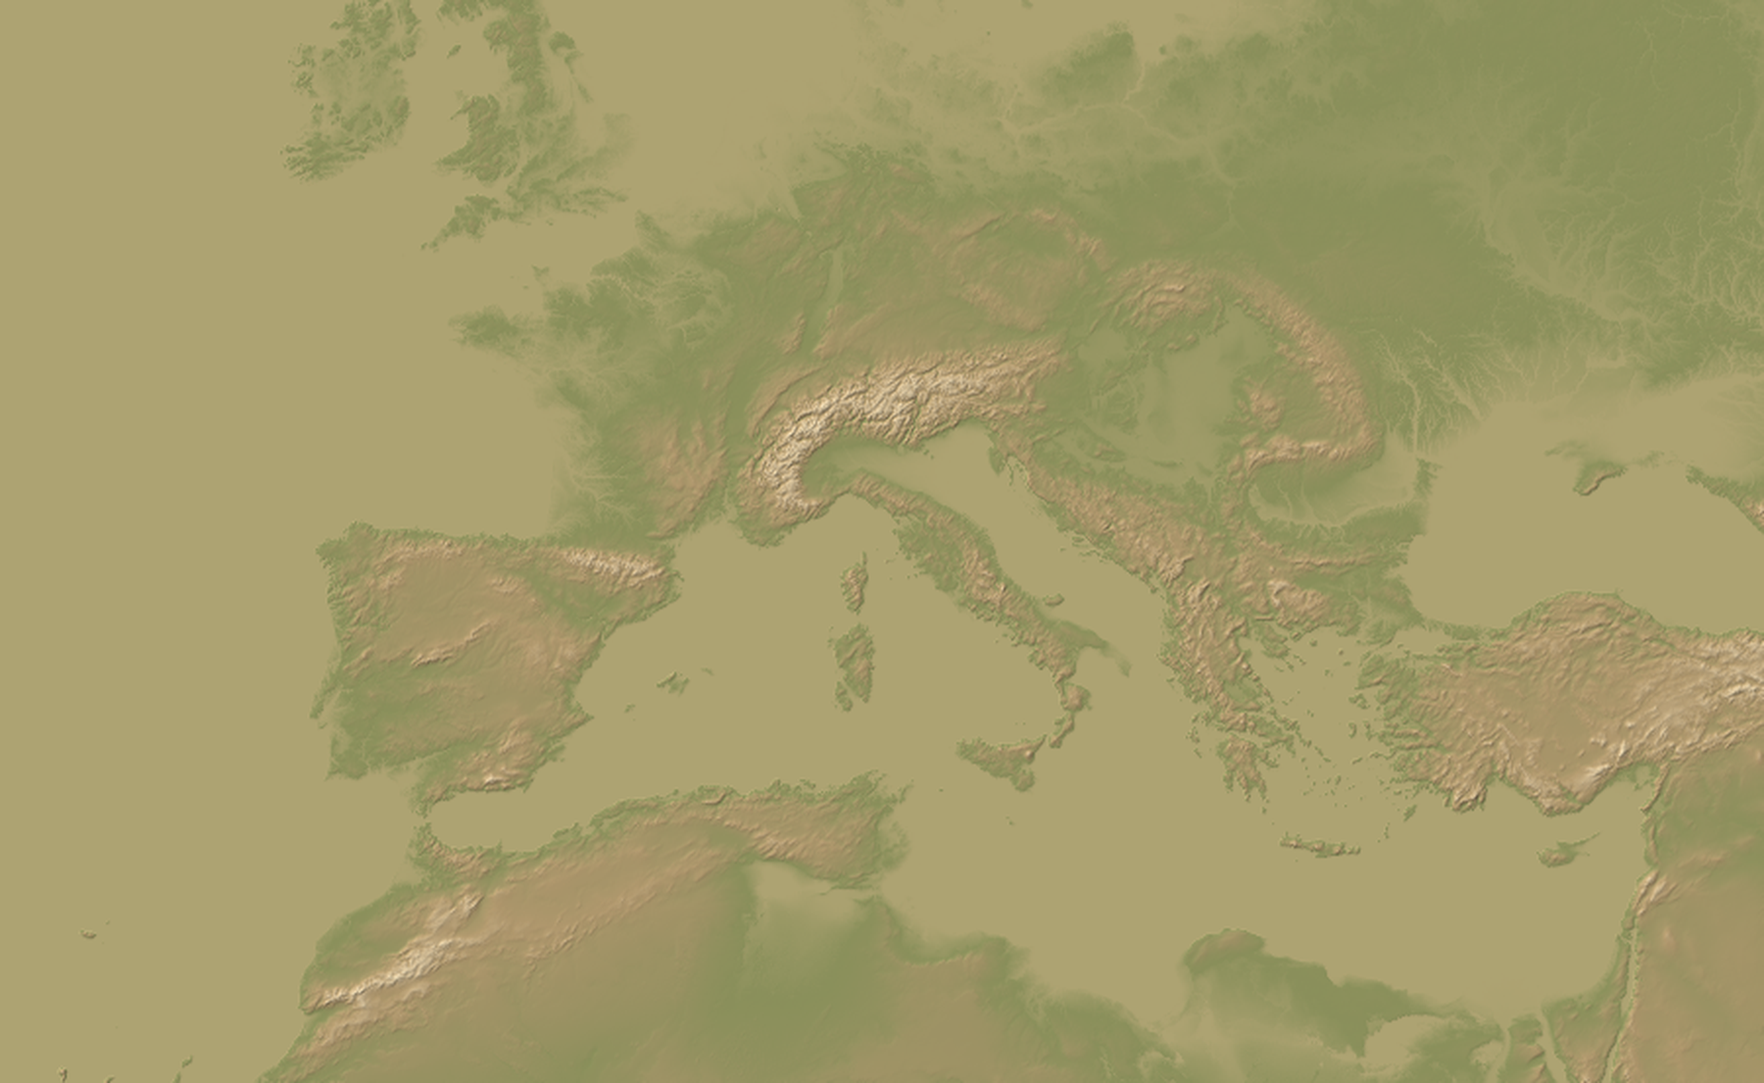
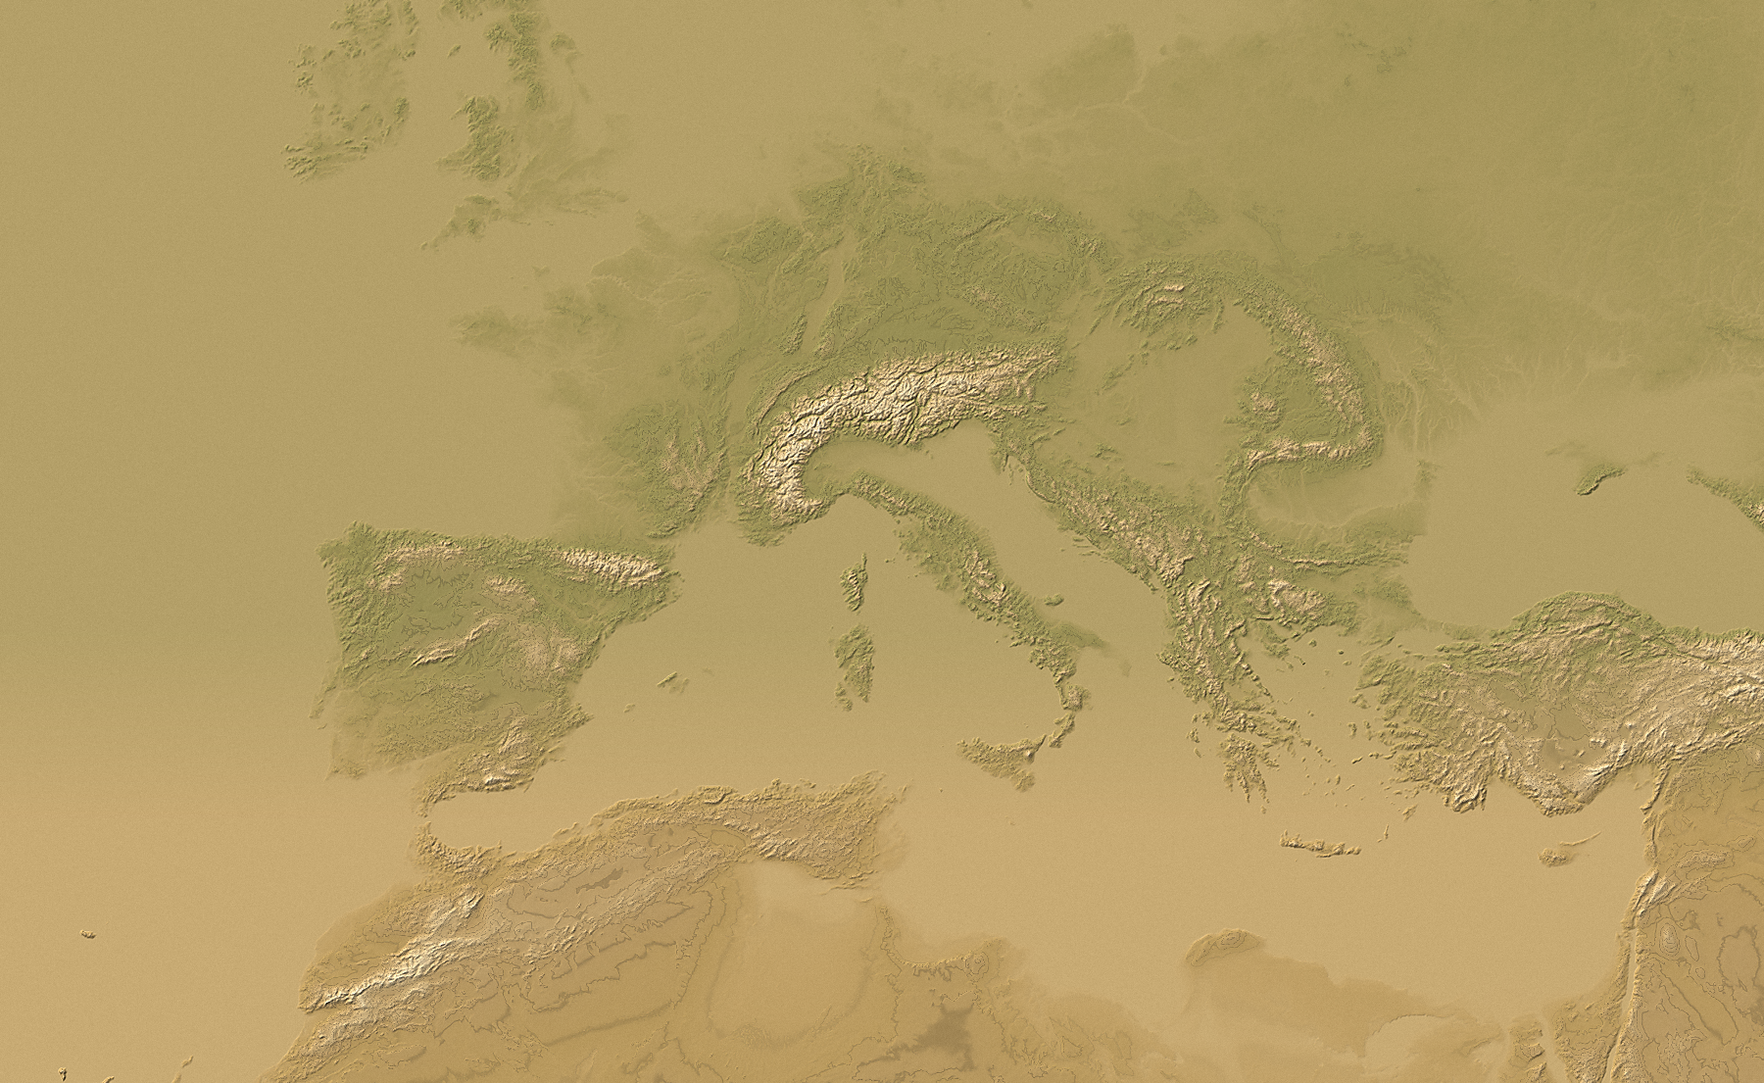
Bring atlas closer to approved reference with detailed relief and bathymetry

diff --git a/jarvis-intelligence-chamber/professional-atlas.js b/jarvis-intelligence-chamber/professional-atlas.js
@@ -29,9 +29,11 @@
  if(brand){brand.querySelector('.atlas-n7').textContent='NABOU';brand.querySelector('.atlas-sub').textContent='N7 Historical Atlas';const ship=el('img');ship.src='./assets/nautical/img/ship.png';ship.alt='';ship.className='pro-brand-ship';brand.prepend(ship);}
  const nav=document.querySelector('#atlasResearch>.atlas-topnav');
  if(nav){nav.querySelector('[data-atlas-nav="research"]').textContent='Ιστορική Έρευνα';nav.querySelector('[data-atlas-nav="tools"]').textContent='Βιβλιοθήκη';}
+ const navIcons={map:'M2 4l6-2 8 3 6-2v17l-6 2-8-3-6 2zM8 2v17M16 5v17',research:'M12 5C8 2 4 2 1 3v17c4-1 7 0 11 2 4-2 7-3 11-2V3c-4-1-7-1-11 2zm0 0v17',sources:'M4 2h16v20H4zM7 6h10M7 10h10M7 14h7M7 18h8',agents:'M8 11a4 4 0 1 0 0-8 4 4 0 0 0 0 8zM1 22v-3c0-7 14-7 14 0v3M17 4a4 4 0 0 1 0 8M19 16c3 1 4 3 4 6',tools:'M2 3h5v19H2zM10 3h5v19h-5zM18 3h4v19h-4zM2 7h5M10 7h5M18 7h4'};
+ if(nav)for(const b of nav.querySelectorAll('[data-atlas-nav]')){const icon=svg('svg',{viewBox:'0 0 24 24',width:24,height:24,'aria-hidden':'true',class:'pro-nav-icon',fill:'none',stroke:'currentColor','stroke-width':1.3,'stroke-linejoin':'round'});icon.append(svg('path',{d:navIcons[b.dataset.atlasNav]||navIcons.sources}));b.prepend(icon);}
  const tools=el('aside',undefined,'pro-map-tools');tools.id='proMapTools';tools.setAttribute('aria-label','Φίλτρα και τόποι χάρτη');
  const heading=el('div',undefined,'pro-tools-heading');heading.append(el('h2','Επίπεδα'),button('×',()=>{tools.classList.remove('pro-open');toggle.setAttribute('aria-expanded','false');},'pro-mobile-close'));tools.append(heading);
- function check(label,key,on){const box=el('label',undefined,'pro-check');const input=el('input');input.type='checkbox';input.checked=on;input.addEventListener('change',()=>{body.dataset[key]=String(input.checked);for(const p of places)if(p.object3d)p.object3d.hidden=key==='proPlaces'?!input.checked:p.object3d.hidden;});box.append(input,el('span',label));tools.append(box);return input;}
+ function check(label,key,on){const box=el('label',undefined,'pro-check');const input=el('input');input.type='checkbox';input.setAttribute('aria-label',label);input.checked=on;input.addEventListener('change',()=>{body.dataset[key]=String(input.checked);for(const p of places)if(p.object3d)p.object3d.hidden=key==='proPlaces'?!input.checked:p.object3d.hidden;});box.append(input,el('span',label));tools.append(box);return input;}
  check('Τόποι & λιμάνια','proPlaces',true);const laneInput=check('Ερευνητές','proLanes',false);check('Ναυτικές γραμμές','proRhumbs',false);
  window.addEventListener('jarvis:focus-agent',()=>{body.dataset.proLanes='true';laneInput.checked=true;});
  const period=el('section',undefined,'pro-period');period.append(el('h2','Χρονολόγηση'));const dateLabel=el('p');
@@ -51,12 +53,19 @@
  const terrain=$('chartPlane').querySelector('svg.chart');
  if(terrain){
   const defs=terrain.querySelector('defs'),clip=svg('clipPath',{id:'proLandClip'});clip.append(svg('use',{href:'#landP'}));defs.append(clip);
-  const gradient=svg('linearGradient',{id:'proSea',x1:'0',y1:'0',x2:'0',y2:'1'});gradient.append(svg('stop',{offset:'0%','stop-color':'#16434a'}),svg('stop',{offset:'100%','stop-color':'#092c34'}));defs.append(gradient);
+  const gradient=svg('linearGradient',{id:'proSea',x1:'0',y1:'0',x2:'0',y2:'1'});gradient.append(svg('stop',{offset:'0%','stop-color':'#0c3e49'}),svg('stop',{offset:'100%','stop-color':'#06242e'}));defs.append(gradient);
+  const ocean=svg('image',{x:0,y:0,width:C.W,height:C.H,class:'pro-ocean'});terrain.querySelector('.landbase').before(ocean);
+  fetch('./assets/nautical/terrain/professional-ocean.png').then(r=>{if(!r.ok)throw Error('ocean unavailable');return r.blob();}).then(blob=>new Promise((resolve,reject)=>{const reader=new FileReader();reader.onload=()=>resolve(reader.result);reader.onerror=reject;reader.readAsDataURL(blob);})).then(data=>{ocean.setAttribute('href',data);body.dataset.proOcean='ready';}).catch(()=>{ocean.remove();body.dataset.proOcean='unavailable';});
   const relief=svg('image',{x:0,y:0,width:C.W,height:C.H,'clip-path':'url(#proLandClip)',class:'pro-relief'});terrain.querySelector('.coast').before(relief);
   // Inline the same-origin raster so the existing 3D SVG texture loader can reuse it.
   fetch('./assets/nautical/terrain/professional-relief.png').then(r=>{if(!r.ok)throw Error('terrain unavailable');return r.blob();}).then(blob=>new Promise((resolve,reject)=>{const reader=new FileReader();reader.onload=()=>resolve(reader.result);reader.onerror=reject;reader.readAsDataURL(blob);})).then(data=>{relief.setAttribute('href',data);body.dataset.proRelief='ready';}).catch(()=>{relief.remove();body.dataset.proRelief='unavailable';});
+  const grid=svg('g',{class:'pro-map-grid'});
+  for(let lon=-15;lon<=40;lon+=5){const a=project(lon,28.4),b=project(lon,55.2);grid.append(svg('path',{d:`M${a.x},${a.y}L${b.x},${b.y}`}));}
+  for(let lat=30;lat<=55;lat+=5){const a=project(-20,lat),b=project(40,lat);grid.append(svg('path',{d:`M${a.x},${a.y}L${b.x},${b.y}`}));}terrain.querySelector('.coast').before(grid);
+  const noise=svg('filter',{id:'proSeaGrain',x:'0%',y:'0%',width:'100%',height:'100%'});noise.append(svg('feTurbulence',{type:'fractalNoise',baseFrequency:'.65',numOctaves:'3',seed:'1577',stitchTiles:'stitch'}));defs.append(noise);
+  const seaGrain=svg('rect',{x:0,y:0,width:C.W,height:C.H,filter:'url(#proSeaGrain)',class:'pro-sea-texture'});terrain.querySelector('.landbase').before(seaGrain);
   const labels=svg('g',{class:'pro-map-labels'});
-  for(const [text,lon,lat,sea] of [['Ευρώπη',4,48,false],['Βόρεια Αφρική',3,30.8,false],['Μικρά Ασία',31,38.5,false],['Μεσόγειος Θάλασσα',15,34.3,true]]){const pos=project(lon,lat),t=svg('text',{x:pos.x,y:pos.y,'text-anchor':'middle',class:sea?'pro-sea-label':'pro-land-label'});t.textContent=text;labels.append(t);}terrain.append(labels);
+  for(const [text,lon,lat,sea] of [['Ευρώπη',4,44.4,false],['Βόρεια Αφρική',3,33.2,false],['Μικρά Ασία',31,38.5,false],['Μεσόγειος Θάλασσα',15,35.7,true]]){const pos=project(lon,lat),t=svg('text',{x:pos.x,y:pos.y,'text-anchor':'middle',class:sea?'pro-sea-label':'pro-land-label'});if(sea){for(const [word,dy]of [['Μεσόγειος',0],['Θάλασσα',27]]){const line=svg('tspan',{x:pos.x,dy});line.textContent=word;t.append(line);}}else t.textContent=text;labels.append(t);}terrain.append(labels);
  }
  function view(){const m=/translate\(([-\d.]+)px,\s*([-\d.]+)px\)\s*scale\(([-\d.]+)\)/.exec(plane.style.transform||'');return m?{x:+m[1],y:+m[2],s:+m[3]}:{x:0,y:0,s:1};}
  function syncView(){const v=view();overlay.style.setProperty('--pro-inverse-scale',1/v.s);const host=$('chartView'),y=(host.clientHeight/2-v.y)/v.s;const lat=(2*Math.atan(Math.exp((C.my1-y/C.k)*Math.PI/180))-Math.PI/2)*180/Math.PI;const kmPerPixel=111.32*Math.cos(lat*Math.PI/180)/(C.k*v.s),raw=140*kmPerPixel,power=10**Math.floor(Math.log10(Math.max(1,raw))),nice=[10,5,2,1].map(n=>n*power).find(n=>n<=raw)||power;scaleLine.style.width=(nice/kmPerPixel)+'px';scaleLabel.textContent='0                     '+Math.round(nice).toLocaleString('el')+' χλμ.';}
@@ -77,5 +86,7 @@
  window.addEventListener('nabou:map3d',event=>{if(!event.detail?.on)return;for(const p of places){if(p.object3d)continue;const b=button(p.name,()=>select(p.id),'pro-3d-place');b.dataset.place=p.id;p.object3d=b;b.hidden=body.dataset.proPlaces!=='true';window.NABOU_MAP3D?.addObject(b,{lon:p.lon,lat:p.lat,z:1});}});
  import('./live-bridge.js').then(({connectResearchFeed})=>connectResearchFeed({onSnapshot:s=>{snapshot=s;renderPlace();},onReset:()=>{snapshot=null;renderPlace();}})).catch(()=>{snapshot=null;renderPlace();});
  select(selected.id,{focus:false});dateLabel.textContent=startYear+' – '+endYear;
+ // Use the existing wheel handler for the reference's slightly wider opening composition.
+ if(innerWidth>900)requestAnimationFrame(()=>requestAnimationFrame(()=>{if(window.NABOU_MAP3D?.enabled)return;const r=$('chartView').getBoundingClientRect();$('chartStage').dispatchEvent(new WheelEvent('wheel',{deltaY:90,clientX:r.left+r.width*.62,clientY:r.top+r.height*.5,bubbles:true,cancelable:true}));}));
  window.NABOU_PRO_ATLAS={places:places.map(({id,name,lon,lat})=>({id,name,lon,lat})),project,select,get selected(){return selected.id;}};
 })();

diff --git a/jarvis-intelligence-chamber/professional-atlas.css b/jarvis-intelligence-chamber/professional-atlas.css
@@ -101,3 +101,49 @@ body.atlas-pro .pro-map-tools input[type=search]{background:#ffffff08!important;
 @media(max-width:1180px){body.atlas-ui.atlas-reading.atlas-pro[data-reader-view=map] #chartView .nxs-3d-tools{right:265px!important}}
 @media(max-width:900px){body.atlas-ui.atlas-reading.atlas-pro[data-reader-view=map] #chartView .nxs-3d-tools{right:14px!important;top:10px!important}}
 @media(max-width:600px){body.atlas-ui.atlas-reading.atlas-pro.nx-v2.nx-mock[data-atlas-page=research] .atlas-research-panel,body.atlas-ui.atlas-reading.atlas-pro.nx-v2.nx-mock[data-atlas-page=research] #nxsAgentsPage,body.atlas-ui.atlas-reading.atlas-pro.nx-v2.nx-mock[data-atlas-page=research] #learningPanel,body.atlas-ui.atlas-reading.atlas-pro.nx-v2.nx-mock[data-atlas-page=research] #detailPanel{top:118px!important;bottom:150px!important}}
+/* Reference correction: engraved parchment surface, restrained chrome, serif labels. */
+body.atlas-pro #chartView::after{content:'';position:absolute;inset:0;z-index:8;pointer-events:none;box-shadow:inset 0 0 110px 35px #080e10b3;background:linear-gradient(90deg,#070e1038,transparent 22%,transparent 78%,#070e1055)}
+.pro-brand-ship{filter:sepia(1) saturate(.65) brightness(3.3)}
+body.atlas-pro .chart .coast{stroke:#d0ab63!important;stroke-width:.65!important}
+body.atlas-pro .chart .coastwash{stroke:#241b10!important;stroke-opacity:.6!important;stroke-width:2!important}
+.pro-land-label{fill:#211d15;font:italic 29px Georgia,serif;stroke:#d5bc84;stroke-width:.5px}
+.pro-sea-label{fill:#e3decc;font:italic 24px Georgia,serif;letter-spacing:7px;opacity:.9}
+body.atlas-pro .pro-marker-label{font:600 13px/1.2 Georgia,serif;background:linear-gradient(#ead8b1,#d8bf8d);border-radius:2px;padding:4px 8px;box-shadow:0 2px 4px #0006}
+body.atlas-pro .pro-place-marker{box-shadow:0 0 0 3px #15160f50,0 2px 6px #0009!important}
+.pro-map-tools,.pro-place-info{background:linear-gradient(125deg,#1b2223ee,#11191bef);border-color:#c1b38c4d;box-shadow:0 14px 35px #0005,inset 0 1px #ffffff06;border-radius:12px}
+.pro-map-tools{top:126px;left:12px;width:238px;padding:18px 16px;max-height:calc(100dvh - 168px)}
+.pro-map-tools h2{font:21px/1.3 Georgia,serif}
+body.atlas-pro .pro-check{padding:0!important;min-height:24px!important;margin:12px 0!important;font:15px/1.5 Georgia,serif!important;gap:12px}
+.pro-check span::before{display:inline-block;width:23px;color:#cfc9b8;font:21px Georgia,serif;margin-right:8px}
+.pro-check:nth-of-type(1) span::before{content:'⚓'}.pro-check:nth-of-type(2) span::before{content:'♙'}.pro-check:nth-of-type(3) span::before{content:'⌖'}
+.pro-period{margin-top:28px;padding-top:18px;position:relative;display:flex;flex-direction:column;padding-bottom:6px}
+.pro-period>p:first-of-type{order:1;margin:22px 0 38px;font-size:18px}.pro-period .pro-note{order:3;margin-top:8px;font-size:10px}
+.pro-period input{position:absolute;top:92px;left:0;width:100%;height:3px;padding:0!important;margin:0!important;appearance:none;background:#a18b58;pointer-events:none;border:0!important;box-shadow:none!important}
+.pro-period input::-webkit-slider-thumb{appearance:none;pointer-events:auto;width:18px;height:18px;border-radius:50%;background:#edd4a2;border:1px solid #e0c18b;cursor:ew-resize}
+.pro-period input::-moz-range-thumb{pointer-events:auto;width:18px;height:18px;border-radius:50%;background:#edd4a2;border:1px solid #e0c18b;cursor:ew-resize}
+.pro-search-label{font:20px Georgia,serif;margin-top:22px;padding-top:20px}
+body.atlas-pro .pro-place-list button{min-height:0!important;padding:5px 8px!important;font:13px Georgia,serif!important;background:transparent!important;box-shadow:none!important;border:1px solid #b29a6530!important}
+.pro-place-info{top:126px;width:284px;padding:18px;max-height:calc(100dvh - 230px)}
+.pro-place-info h2{font:25px Georgia,serif}
+body.atlas-pro .pro-close-place{background:none!important;border:0!important;box-shadow:none!important;width:26px!important;height:26px!important;min-width:0!important;min-height:0!important;padding:0!important;font:25px Georgia,serif!important;color:#c9c4b6!important}
+.pro-place-info>img{height:145px;border:1px solid #b5a17790;border-radius:9px}
+.pro-place-info dl{font:15px/1.45 Georgia,serif;gap:13px}
+.pro-place-info details{font:16px Georgia,serif;padding:16px 0}
+body.atlas-pro .pro-research-place{font:16px Georgia,serif!important;background:none!important;border:0!important;border-bottom:1px solid #a18b5845!important;box-shadow:none!important;border-radius:0!important;padding:17px 0!important}
+.pro-map-grid{stroke:#d0c6a1;stroke-width:.65;opacity:.11;fill:none;pointer-events:none}
+.pro-sea-texture{pointer-events:none;opacity:.13;mix-blend-mode:soft-light}
+body.atlas-pro .pro-assistant{box-shadow:0 0 20px #d6b26c26,inset 0 0 18px #d6b26c12;background:linear-gradient(110deg,#222622ee,#111a1cfa)}
+.pro-assistant strong{font-size:19px}.pro-assistant span{font-size:11px}
+@media(min-width:1181px){body.atlas-ui.atlas-reading.atlas-pro #chartView .nxs-3d-tools{right:316px!important}.pro-map-scale{left:280px}}
+@media(max-width:1180px){.pro-map-tools{width:190px;padding:12px}.pro-place-info{width:245px;padding:12px}.pro-place-info dl{font-size:13px}}
+@media(max-width:900px){.pro-map-tools{top:160px;width:min(270px,calc(100vw - 24px));max-height:calc(100dvh - 250px)}.pro-place-info{top:140px;max-height:calc(100dvh - 300px)}}
+@media(max-width:600px){.pro-place-info{top:auto;bottom:155px;max-height:40dvh;width:auto;padding:14px}.pro-place-info dl{font-size:13px}.pro-place-info details{font-size:14px}body.atlas-ui.atlas-reading.atlas-pro[data-atlas-landing=true] #atlasHome.unified-welcome{left:14px!important;width:calc(100vw - 28px)!important}}
+body.atlas-ui.atlas-reading.atlas-pro #proMapTools .pro-period input[type=range]{min-height:0!important;max-height:4px!important;height:4px!important;background:#c59d56!important;border-radius:2px!important;padding:0!important;box-shadow:none!important;outline:0!important;appearance:none!important}
+body.atlas-ui.atlas-reading.atlas-pro #proMapTools .pro-check{height:32px!important;min-height:0!important;max-height:32px!important;padding:0!important;margin:8px 0!important;grid-template-columns:none!important}
+body.atlas-ui.atlas-reading.atlas-pro #proMapTools .pro-check input{margin:0!important;padding:0!important;min-height:18px!important;width:18px!important;height:18px!important}
+body.atlas-ui.atlas-reading.atlas-pro #atlasResearch>.atlas-topnav{justify-content:flex-start;gap:32px!important;font:20px/1.4 Georgia,serif!important;left:370px!important}
+body.atlas-ui.atlas-reading.atlas-pro #atlasResearch>.atlas-topnav button{display:inline-flex!important;align-items:center;gap:12px!important;white-space:nowrap}
+.pro-nav-icon{flex:none;opacity:.9}
+@media(max-width:1400px){body.atlas-ui.atlas-reading.atlas-pro #atlasResearch>.atlas-topnav{gap:22px!important;font-size:17px!important;left:320px!important}.pro-nav-icon{width:21px;height:21px}}
+@media(max-width:1180px){body.atlas-ui.atlas-reading.atlas-pro #atlasResearch>.atlas-topnav{gap:15px!important;font-size:14px!important;left:250px!important}.pro-nav-icon{width:18px;height:18px}}
+@media(max-width:600px){body.atlas-ui.atlas-reading.atlas-pro #atlasResearch>.atlas-topnav{left:12px!important;gap:15px!important;font:12px/1.4 Georgia,serif!important}.pro-nav-icon{display:none}}

diff --git a/jarvis-intelligence-chamber/tools/build_professional_relief.py b/jarvis-intelligence-chamber/tools/build_professional_relief.py
@@ -1,25 +1,45 @@
 #!/usr/bin/env python3
-"""Color and shade the EXISTING NOAA ETOPO1 grid; its Mercator extent is unchanged.
-This is terrain data visualization, not an AI-generated map or historical borders.
+"""Render the existing georeferenced NOAA elevation grid as an engraved atlas.
+Relief and contours follow elevation data; paper grain is decorative only.
 """
 from pathlib import Path
 import hashlib,json
 import numpy as np
-from PIL import Image
-
+from PIL import Image,ImageFilter
 ROOT=Path(__file__).resolve().parents[1]
-source=ROOT/'assets/nautical/terrain/mediterranean-elevation.png'
-data=np.asarray(Image.open(source).convert('RGB'),dtype=np.float32)
-height=(data[:,:,0]/255)**2*4000
-dy,dx=np.gradient(height,4500,5000)
-normal=np.dstack((-dx*3,-dy*3,np.ones_like(height)))
+source=ROOT/'assets/nautical/terrain/mediterranean-elevation-2min.png'
+elevation=np.asarray(Image.open(source),dtype=np.float32)-12000
+height=np.maximum(elevation,0)
+# Work at native grid resolution: avoid inventing finer terrain by upscaling first.
+dy,dx=np.gradient(height,2250,2500)
+normal=np.dstack((-dx*4,-dy*4,np.ones_like(height)))
 normal/=np.linalg.norm(normal,axis=2)[:,:,None]
-sun=np.array([-0.55,-0.55,0.63]);sun/=np.linalg.norm(sun)
-shade=np.clip(0.55+np.sum(normal*sun,axis=2)*0.65,0.52,1.14)
-stops=np.array([0,180,600,1300,2300,4000])
-palette=np.array([[181,170,119],[144,150,95],[164,153,105],[182,157,113],[204,182,143],[234,219,184]])
+sun=np.array([-.60,-.62,.50]);sun/=np.linalg.norm(sun)
+shade=np.clip(.66+np.sum(normal*sun,axis=2)*.60,.47,1.22)
+stops=np.array([0,150,400,900,1600,2500,4000])
+palette=np.array([[209,178,121],[201,168,108],[192,160,98],[191,159,105],[202,173,122],[222,197,151],[241,223,186]])
 rgb=np.stack([np.interp(height,stops,palette[:,c]) for c in range(3)],axis=2)
-rgb=np.uint8(np.clip(rgb*shade[:,:,None],0,255))
+# Tight elevation bands give a restrained engraved contour treatment.
+contours=np.exp(-((np.mod(height,180)-90)/15)**2)*np.clip(height/600,0,1)
+lat=np.degrees(2*np.arctan(np.exp(np.radians(66.48233060009922-(np.arange(1105)+.5)/30)))-np.pi/2)[:,None]
+green=np.clip((lat-36)/5,0,1)*np.exp(-((height-550)/650)**2)*.55
+rgb=rgb*(1-green[:,:,None])+np.array([130,139,79])[None,None,:]*green[:,:,None]
+rgb*=shade[:,:,None]*(1-contours[:,:,None]*.13)
+rgb=np.uint8(np.clip(rgb,0,255))
+img=Image.fromarray(rgb).resize((1800,1105),Image.Resampling.LANCZOS).filter(ImageFilter.UnsharpMask(radius=1,percent=145,threshold=2))
+# Deterministic nongeographic paper grain; it does not alter heights/coastlines.
+rng=np.random.default_rng(1577)
+paper=np.asarray(img,dtype=np.float32)
+paper+=rng.normal(0,2.6,(1105,1800,1))
 target=ROOT/'assets/nautical/terrain/professional-relief.png'
-Image.fromarray(rgb).resize((1800,1105),Image.Resampling.LANCZOS).save(target,optimize=True)
+Image.fromarray(np.uint8(np.clip(paper,0,255))).save(target,optimize=True)
+# Bathymetry supplies subtle physical structure to the dark sea.
+depth=np.maximum(-elevation,0)
+ocean_stops=np.array([0,150,600,1800,3500,6500])
+ocean_palette=np.array([[24,73,77],[16,66,74],[11,58,68],[6,46,58],[5,36,47],[4,29,41]])
+ocean=np.stack([np.interp(depth,ocean_stops,ocean_palette[:,c]) for c in range(3)],axis=2)
+oy,ox=np.gradient(depth,2250,2500)
+light=np.clip(1+(-ox-oy)*.3,.88,1.14)
+ocean=ocean*light[:,:,None]+rng.normal(0,1.5,(1105,1800,1))
+Image.fromarray(np.uint8(np.clip(ocean,0,255))).save(target.with_name('professional-ocean.png'),optimize=True)
 print(json.dumps({'source_sha256':hashlib.sha256(source.read_bytes()).hexdigest(),'extent':'existing 1800x1105 Mercator nautical chart','asset':target.name,'bytes':target.stat().st_size}))

diff --git a/jarvis-intelligence-chamber/tools/resample_professional_elevation.py b/jarvis-intelligence-chamber/tools/resample_professional_elevation.py
@@ -1,0 +1,23 @@
+#!/usr/bin/env python3
+"""Resample the NOAA ETOPO1 two-arcminute CSV to the existing Mercator grid.
+Download query and source provenance: assets/nautical/terrain/mediterranean-elevation-2min.json.
+Usage: python tools/resample_professional_elevation.py etopo.csv
+Requires NumPy and Pillow. Does not change the original 3D terrain data.
+"""
+import sys,math
+from pathlib import Path
+import numpy as np
+from PIL import Image
+rows=np.loadtxt(sys.argv[1],delimiter=',',skiprows=2)
+lats,lons=np.unique(rows[:,0]),np.unique(rows[:,1])
+z=rows[:,2].reshape(len(lats),len(lons))
+W,H,K,LON0,MY1=1800,1105,30.,-20.,66.48233060009922
+lon=LON0+(np.arange(W)+.5)/K
+lat=np.degrees(2*np.arctan(np.exp(np.radians(MY1-(np.arange(H)+.5)/K)))-math.pi/2)
+fi=np.interp(lat,lats,np.arange(len(lats)));fj=np.interp(lon,lons,np.arange(len(lons)))
+i0=np.floor(fi).astype(int).clip(0,len(lats)-2);j0=np.floor(fj).astype(int).clip(0,len(lons)-2)
+ti=(fi-i0)[:,None];tj=(fj-j0)[None,:]
+g=(z[i0][:,j0]*(1-ti)*(1-tj)+z[i0][:,j0+1]*(1-ti)*tj+z[i0+1][:,j0]*ti*(1-tj)+z[i0+1][:,j0+1]*ti*tj)
+target=Path(__file__).resolve().parents[1]/'assets/nautical/terrain/mediterranean-elevation-2min.png'
+Image.fromarray(np.uint16(np.round(g)+12000)).save(target,optimize=True)
+print(target)

diff --git a/jarvis-intelligence-chamber/README.md b/jarvis-intelligence-chamber/README.md
@@ -79,3 +79,14 @@ make no automatic verification claim. The N7 button opens the existing assistant
 Verification: `node professional-atlas.browser.test.cjs`, `node atlas-pages.test.cjs`
 and `node workspace-layout.test.cjs` (Playwright). Tests isolate external requests
 and never dispatch production research.
+
+Reference-style revision (preview): the 2D surface now uses a separate 1800×1105
+16-bit elevation grid, resampled directly from the NOAA ETOPO1 2-arcminute source.
+Its provenance, encoding, source query and source-grid hash are recorded in
+`assets/nautical/terrain/mediterranean-elevation-2min.json`. Rebuild with
+`tools/resample_professional_elevation.py <downloaded.csv>`, then
+`tools/build_professional_relief.py`. Land colors, engraved elevation bands and
+paper grain are illustrative styling; sea shading follows actual bathymetry.
+Neither is historical territorial evidence. The original WebGL heightmap remains
+unchanged. Desktop opening composition uses the existing wheel handler with a small zoom-out
+gesture; all pan, zoom, clamps and geographic projections remain canonical.
